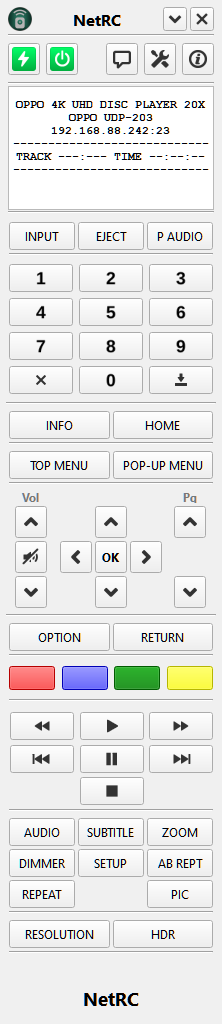
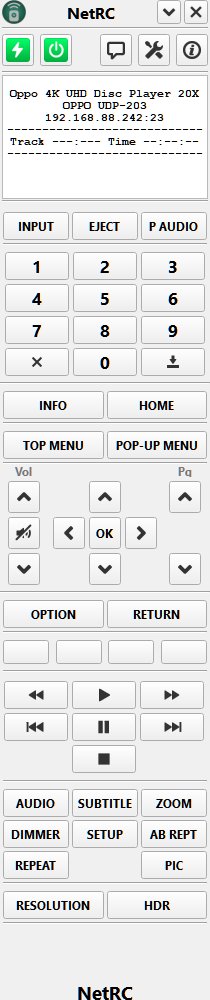
change custom themes

Changed region(s): [[0.0, 0.0, 1.0, 0.93], [0.3714, 0.961, 0.6286, 1.0], [0.6286, 0.527, 0.7714, 0.558]]

diff --git a/doc/style/README.md b/doc/style/README.md
@@ -2,4 +2,4 @@
 
 [Black](/settings/style/black.qss) | [Gray](/settings/style/gray.qss) | [White](/settings/style/white.qss) | [No C11n](/settings/style/0.qss)
 ------------ | ------------- | ------------- | -------------
-![OPPO UDP-203 black](../w11/images/Oppo-203.png) | ![OPPO UDP-203 gray](../w11/images/theme/Oppo-203-gray.png) | ![OPPO UDP-203 gray](../w11/images/theme/Oppo-203-white.png) | ![OPPO UDP-203 0](../w11/images/theme/Oppo-203-0.png)
+![OPPO UDP-203 black](../w11/images/Oppo-203.png) | ![OPPO UDP-203 gray](../w11/images/theme/Oppo-203-gray.png) | ![OPPO UDP-203 white](../w11/images/theme/Oppo-203-white.png) | ![OPPO UDP-203 0](../w11/images/theme/Oppo-203-0.png)
